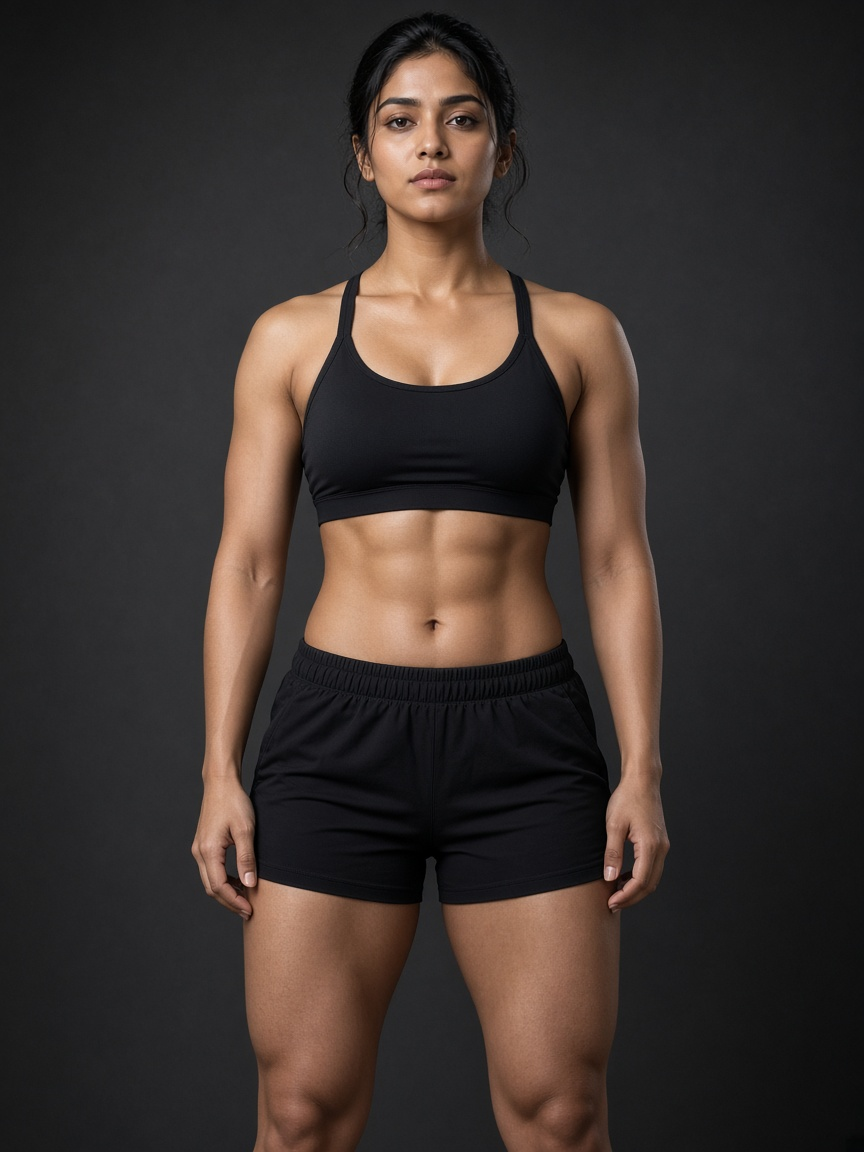
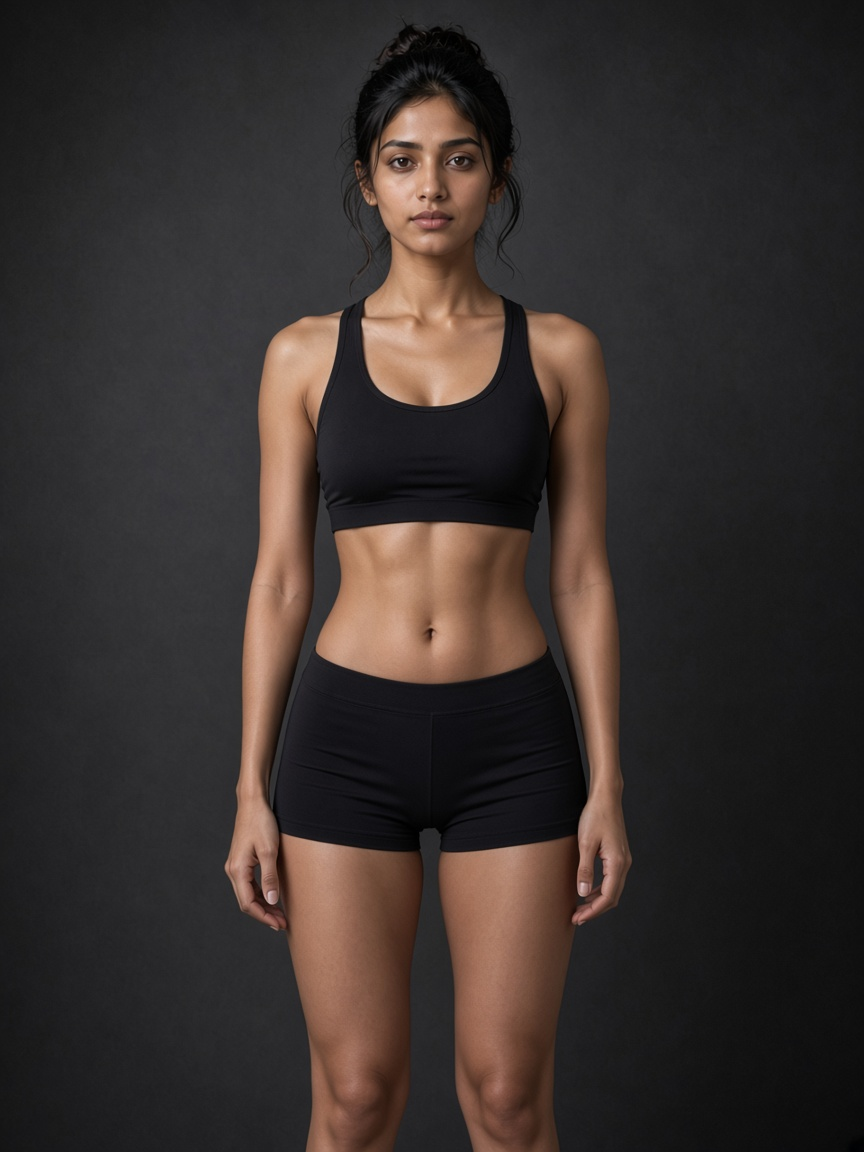
Speed up transformation fades and soften female after physiques.
Faster before/after loops and toned hourglass female results instead of bulky builds.

Changed region(s): [[0.2188, 0.0, 0.7812, 1.0]]

diff --git a/src/lib/plan-transformations.ts b/src/lib/plan-transformations.ts
@@ -39,29 +39,29 @@ export const PLAN_TRANSFORMATIONS: PlanTransformation[] = [
   },
   {
     id: 'slim-athletic-w',
-    title: 'Slim → Athletic',
+    title: 'Slim → Toned',
     subtitle: 'Expected change within 30 days',
     beforeSrc: '/landing/transformations/tf-woman-skinny-before.png',
     afterSrc: '/landing/transformations/tf-woman-athletic-after.png',
     beforeAlt: 'Before: slim frame',
-    afterAlt: 'After: athletic toned physique',
+    afterAlt: 'After: toned hourglass physique',
   },
   {
     id: 'soft-lean-w',
-    title: 'Soft → Lean',
+    title: 'Soft → Hourglass',
     subtitle: 'Expected change within 30 days',
     beforeSrc: '/landing/transformations/tf-woman-soft-before.png',
     afterSrc: '/landing/transformations/tf-woman-lean-after.png',
     beforeAlt: 'Before: softer midsection',
-    afterAlt: 'After: lean toned physique',
+    afterAlt: 'After: lean hourglass physique',
   },
   {
     id: 'weak-strong-w',
-    title: 'Weak → Strong',
+    title: 'Soft → Sculpted',
     subtitle: 'Expected change within 30 days',
     beforeSrc: '/landing/transformations/tf-woman-weak-before.png',
     afterSrc: '/landing/transformations/tf-woman-strong-after.png',
     beforeAlt: 'Before: low muscle tone',
-    afterAlt: 'After: strong athletic physique',
+    afterAlt: 'After: sculpted toned physique',
   },
 ]

diff --git a/src/components/landing/AnimatedTransformations.tsx b/src/components/landing/AnimatedTransformations.tsx
@@ -32,7 +32,7 @@ function TransformationCard({
       startTransition(() => setShowAfter(true))
       intervalId = window.setInterval(() => {
         startTransition(() => setShowAfter((v) => !v))
-      }, 2800)
+      }, 1600)
     }, delayMs)
     return () => {
       window.clearTimeout(startId)
@@ -103,7 +103,7 @@ export function AnimatedTransformations({
             key={item.id}
             item={item}
             reduceMotion={reduceMotion}
-            delayMs={index * 350}
+            delayMs={index * 180}
           />
         ))}
       </div>

diff --git a/src/components/landing/AnimatedTransformations.module.css b/src/components/landing/AnimatedTransformations.module.css
@@ -77,7 +77,7 @@
   height: 100%;
   object-fit: cover;
   object-position: center 12%;
-  transition: opacity 0.7s ease;
+  transition: opacity 0.35s ease;
 }
 
 .imgVisible {
